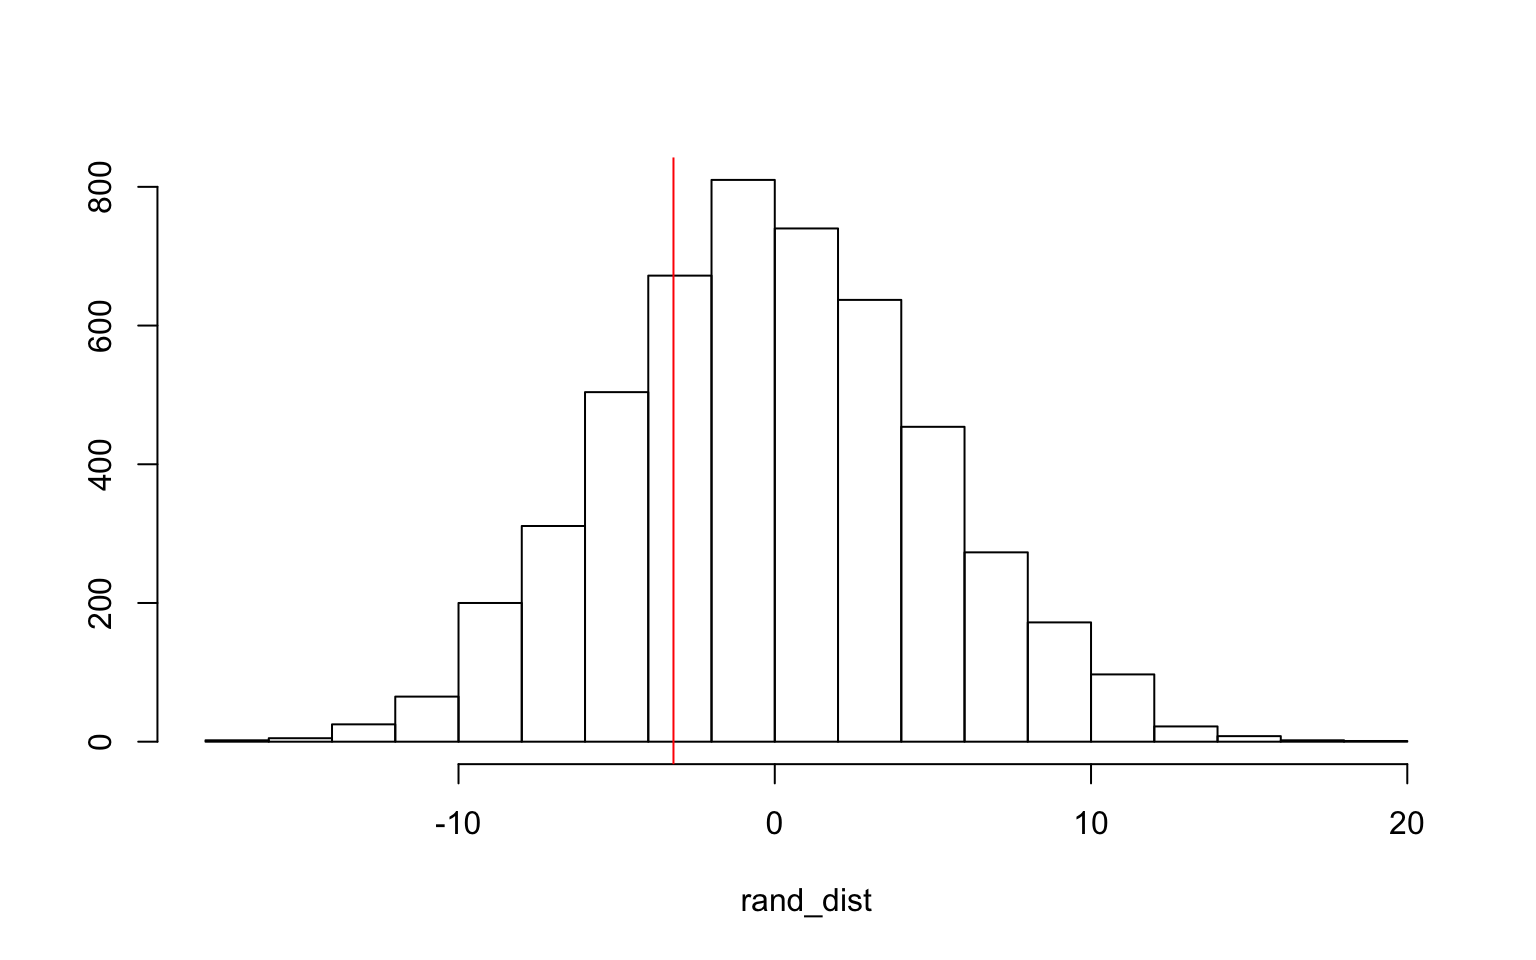
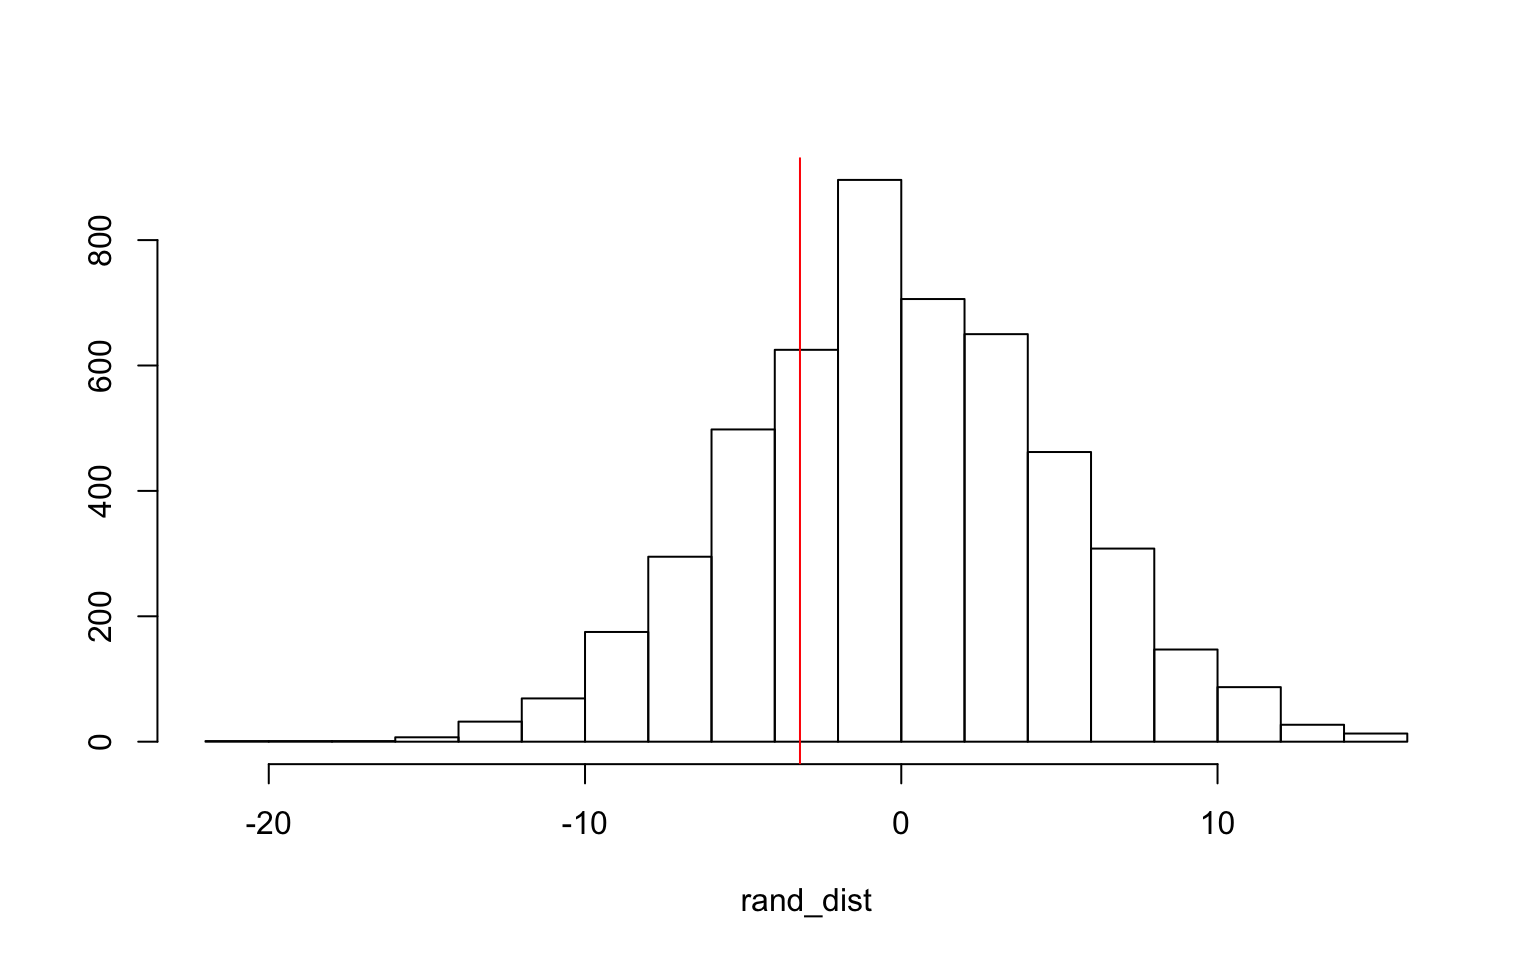
html_resume build

diff --git a/content/Project2.html b/content/Project2.html
@@ -204,7 +204,7 @@ for (i in 1:5000) {
 }
 
 mean(rand_dist &lt; -3.203125) * 2  #pvalue</code></pre>
-<pre><code>## [1] 0.546</code></pre>
+<pre><code>## [1] 0.5252</code></pre>
 <pre class="r"><code>t.test(data = hurricane, LF.WindsMPH ~ mf)</code></pre>
 <pre><code>##
 ## Welch Two Sample t-test
@@ -335,7 +335,7 @@ hurricane)
 })
 samp_distn %&gt;% t %&gt;% as.data.frame %&gt;% summarize_all(sd)</code></pre>
 <pre><code>##   (Intercept)    damage_c pressure_c damage_c:pressure_c
-## 1      22.843 0.004655593   1.038794        0.0002603973</code></pre>
+## 1    22.93819 0.004633314   1.029836        0.0002612186</code></pre>
 <ul>
 <li><strong>5. </strong> Performing a logistic regression predicting a binary categorical variable from at least two explanatory variables (interaction not included).</li>
 </ul>

diff --git a/public/project2/index.html b/public/project2/index.html
@@ -262,7 +262,7 @@ for (i in 1:5000) {
 }
 
 mean(rand_dist &lt; -3.203125) * 2  #pvalue</code></pre>
-<pre><code>## [1] 0.546</code></pre>
+<pre><code>## [1] 0.5252</code></pre>
 <pre class="r"><code>t.test(data = hurricane, LF.WindsMPH ~ mf)</code></pre>
 <pre><code>##
 ## Welch Two Sample t-test
@@ -393,7 +393,7 @@ hurricane)
 })
 samp_distn %&gt;% t %&gt;% as.data.frame %&gt;% summarize_all(sd)</code></pre>
 <pre><code>##   (Intercept)    damage_c pressure_c damage_c:pressure_c
-## 1      22.843 0.004655593   1.038794        0.0002603973</code></pre>
+## 1    22.93819 0.004633314   1.029836        0.0002612186</code></pre>
 <ul>
 <li><strong>5. </strong> Performing a logistic regression predicting a binary categorical variable from at least two explanatory variables (interaction not included).</li>
 </ul>
